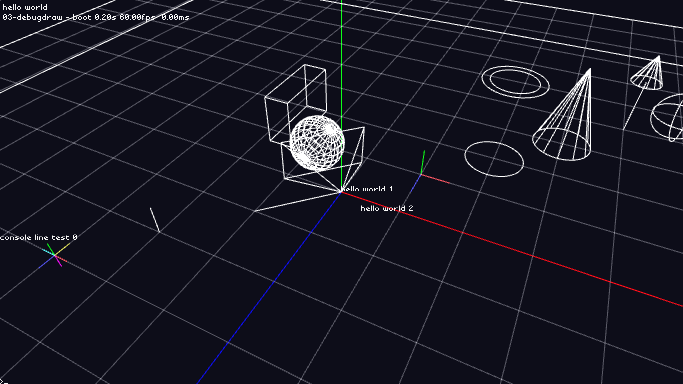
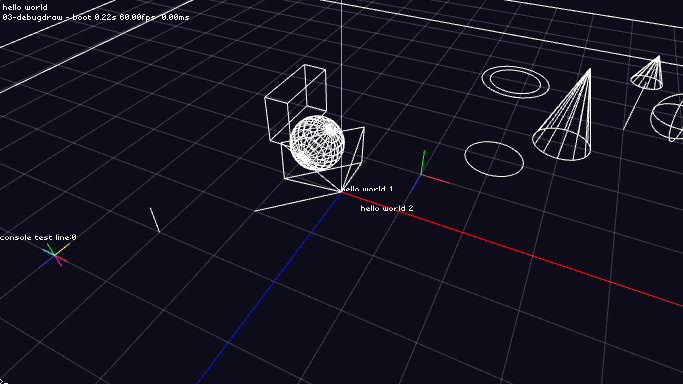
engine: minor tweaks

Changed region(s): [[0.0615, 0.5938, 0.123, 0.625]]

diff --git a/games/demos/09-frustum.c b/games/demos/09-frustum.c
@@ -1,9 +1,9 @@
 #include <engine.h>
 
 int main() {
-    bool frustum_cull_enabled = 1;
-    int objects_total = 0;
-    int objects_rendered = 0;
+    bool frustum_culling = true;
+    int total_objects = 0;
+    int drawn_objects = 0;
 
     window_create( 0.50f, 0 );
 
@@ -23,36 +23,36 @@ int main() {
         mat44 view; copy44(view, cam.view);
         mat44 projview; multiply44(projview, proj, view);
 
-        objects_total = 0;
-        objects_rendered = 0;
+        total_objects = 0;
+        drawn_objects = 0;
 
-        if( key_down(' ') ) frustum_cull_enabled ^= 1;
+        if( key_down(' ') ) frustum_culling = !frustum_culling;
 
         frustum f = frustum_build(projview);
 
         ddraw_begin(projview);
         for(int i = -300; i < 300; i += 5) {
             for(int j =  -300; j < 300; j += 5) {
-                objects_total++;
+                total_objects++;
 
                 vec3 minpos = vec3(i,-10,j);
                 vec3 maxpos = add3(minpos, vec3(2.5,2.5,2.5));
 
                 bool visible = frustum_test_aabb(f, aabb(minpos, maxpos));
 
-                if ( frustum_cull_enabled && !visible ) {
+                if ( frustum_culling && !visible ) {
                     // skip rendering
                     continue;
                 }
 
                 ddraw_aabb(minpos, maxpos);
-                objects_rendered++;
+                drawn_objects++;
             }
         }
         ddraw_end();
 
         ddraw_printf(window_stats());
-        ddraw_printf("frustum_cull_enabled:%s objects_rendered:%d/%d", frustum_cull_enabled ? "on":"off", objects_rendered, objects_total);
+        ddraw_printf("frustum_culling:%s drawn_objects:%d/%d", frustum_culling ? "on":"off", drawn_objects, total_objects);
         ddraw_printf("space - toggle frustum culling on/off");
         window_swap(0);
     }

diff --git a/engine/window/window_app.c b/engine/window/window_app.c
@@ -298,7 +298,7 @@ int window_create( float zoom, int flags ) {
     */
     int sdl_window_flags = SDL_WINDOW_OPENGL;
     sdl_window_flags |= SDL_WINDOW_INPUT_FOCUS | SDL_WINDOW_MOUSE_FOCUS;
-    sdl_window_flags |= fullscreen ? SDL_WINDOW_FULLSCREEN : 0;
+    sdl_window_flags |= fullscreen ? SDL_WINDOW_FULLSCREEN_DESKTOP : 0; // SDL_WINDOW_FULLSCREEN
     sdl_window_flags |= fullscreen ? 0 : SDL_WINDOW_RESIZABLE;
     sdl_window_flags |= fullscreen ? SDL_WINDOW_INPUT_GRABBED : 0; // grabbed -> mouse confined to window
 
@@ -562,7 +562,7 @@ char* window_stats() {
         num_frames = 0;
     }
 
-    const char *appname = __argv[0]; // also print %used/%avail kib mem, %used/%avail objs
+    const char *appname = __argv[0]; // @todo: print %used/%avail kib mem, %used/%avail objs as well
     char *buf = va("%s - boot %.2fs %5.2ffps %5.2fms", appname, boot_time, fps, (now - prev_frame) * 1000.f);
     buf += (buf[0] == ' ');
 

diff --git a/engine/render/render_ddraw.c b/engine/render/render_ddraw.c
@@ -214,7 +214,7 @@ void ddraw_begin(float projview[16]) {
     }
 
     glEnable(GL_BLEND);
-    glBlendFunc(GL_ONE, GL_ONE); // additive: 1 * src_color + 1 * fb_color
+    glBlendFunc(GL_ONE, GL_ONE); // additive: 1 * src_color + 1 * fb_color ; saturate: GL_SRC_ALPHA, GL_ONE
     //glBlendFunc(GL_SRC_ALPHA, GL_ONE_MINUS_SRC_ALPHA); // decal: src_color.a * src_color + (1 - src_color.a) * fb_color
     //glBlendFunc(GL_DST_COLOR, GL_ZERO); // modulate: fb_color * src_color + 0 * fb_color
 

diff --git a/engine/engine.c b/engine/engine.c
@@ -77,12 +77,7 @@ int init() {
 
 #if 1 // DEBUG
     // in case binary is present in any _debug/, _debugopt/, _release/ folder
-    vfs_import("../data/**");
-    vfs_import("../demo/**");
-    vfs_import("../demos/**");
-    vfs_import("../game/**");
     vfs_import("../games/**");
-    vfs_import("../assets/**");
 #endif
 
 /*

diff --git a/games/demos/03-debugdraw.c b/games/demos/03-debugdraw.c
@@ -54,7 +54,7 @@ int main() {
         ddraw_end();
 
         static int counter = 0;
-        ddraw_console("console line test %d", counter++);
+        ddraw_console("console test line:%d", counter++);
 
         ddraw_printf(window_stats());
         window_swap(0);
